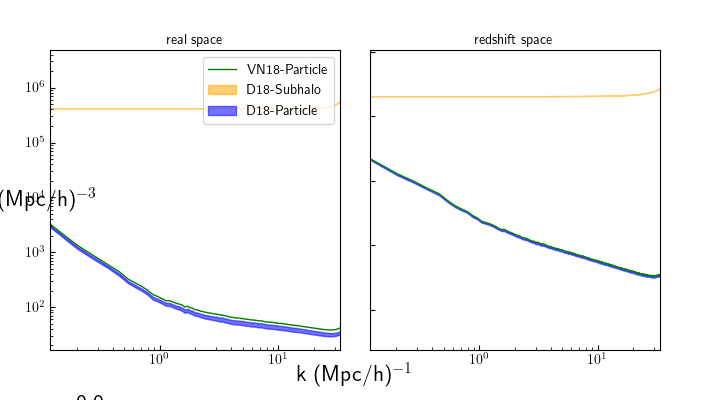
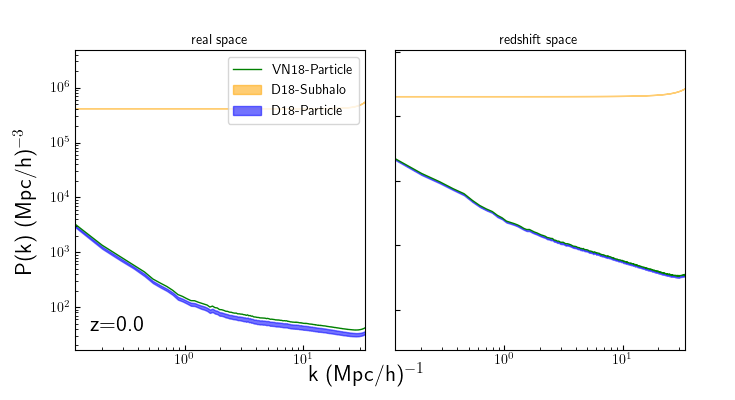
god there's so much to do

diff --git a/hc_lib/plots/figures/HI_auto_pk.py b/hc_lib/plots/figures/HI_auto_pk.py
@@ -37,9 +37,9 @@ def hiptl_individual_models(hiptls, panel_length = 3,
     nrows = len(snapshots)
     col_labels = ["real space", "redshift space", "comparison"]
     ncols = len(col_labels)
-
+    xborder = [1.5*border, border]
     fig, panels = plib.createFig(panel_length, nrows, ncols, panel_bt,
-            border, border)
+            xborder, border)
     
     # getting keys for each part:
     real_keys = plib.fetchKeys(['CICW'],['rs', 'temp'], list(hiptls[0].pks.keys()))
@@ -114,9 +114,9 @@ def hisubhalo_individual_models(hisubs, panel_length=3, panel_bt = 0.1,
     nrows = len(snapshots)
     col_labels = ["real space", "redshift space", "space comparison"]
     ncols = len(col_labels)
-
+    xborder = [1.5 * border, border]
     fig, panels = plib.createFig(panel_length, nrows, ncols, panel_bt,
-            border, border)
+            xborder, border)
     
     # getting keys for each part:
     real_keys = plib.fetchKeys(['CICW'],['rs', 'papa'], list(hisubs[0].pks.keys()))
@@ -234,8 +234,9 @@ def HI_auto_pk(hiptls, hisubs, vns, panel_length = 3,
     col_labels = ['real space', 'redshift space']
     nrows = len(snapshots)
     ncols = len(col_labels)
+    xborder = [1.5 * border, border]
     fig, panels = plib.createFig(panel_length, nrows, ncols, panel_bt,
-            border, border)
+            xborder, border)
     
     # now making each panel
     
@@ -290,16 +291,16 @@ def HI_auto_pk(hiptls, hisubs, vns, panel_length = 3,
                 ax.set_xticklabels([])
             
             if j == 0:
-                plt.text(hiptls[0].pks['k'][0], yrange[0] * 1.1,
+                plt.text(0.05, 0.05,
                     'z=%.1f'%redshifts[i], fontsize = fsize, ha = 'left', va = 'bottom',
-                    fontweight = 'bold')
+                    fontweight = 'bold', transform = ax.transAxes)
             else:
                 ax.set_yticklabels([])
         
 
     figsize = fig.get_size_inches()
     fig.text(border/2/figsize[0], 0.5, r'P(k) (Mpc/h)$^{-3}$',ha = 'center',
-            va = 'center', fontsize=fsize)
+            va = 'center', fontsize=fsize, rotation='vertical')
     fig.text(0.5, border/2/figsize[1], r'k (Mpc/h)$^{-1}$', ha = 'center',
             va = 'center', fontsize=fsize)
     

diff --git a/hc_lib/plots/figures/galaxy_auto_pk.py b/hc_lib/plots/figures/galaxy_auto_pk.py
@@ -7,11 +7,25 @@ import sys
 mpl.rcParams['text.usetex'] = True
 
 def main():
+    print("loading paths...")
+    OUTDIR = sys.argv.pop(1)
+    paths = plib.getPaths(OUTDIR)
+
+    print("loading pickle files...")
+    gals = plib.checkPkls(paths, {'fieldname':'galaxy'})
+    gdusts = plib.checkPkls(paths, {'fieldname':'galaxy_dust'})
+
+    print("comparing ...")
+    (gals, gdusts)
     return
 
-def stmass_vs_mass(galaxies, galaxy_dusts, panel_length = 3, panel_bt = 0.1,
+def mass_type_and_mas(gals, gdusts, panel_length = 3, panel_bt = 0.1,
         border = 0.5, fsize=16):
+    snapshots, redshifts = plib.getSnaps(gals + gdusts)
+    nrows = len(snapshots)
+    col_labels = ['Mass Species', 'Mass Assignment Scheme']
     
+    stmass_
     return
 if __name__ == '__main__':
     main()

diff --git a/hc_lib/fields/field_super.py b/hc_lib/fields/field_super.py
@@ -8,11 +8,11 @@ import h5py as hp
 from Pk_library import Pk, Xi, XPk, XXi
 import copy
 
-class Props():
+class grid_props():
     
-    def __init__(self, mas, field, in_rss, other_props):
+    def __init__(self, base, mas, field, in_rss, other_props):
         self.props = {}
-        self.props['rss'] = in_rss
+        self.props['base'] = base
         self.props['mas'] = mas
         self.props['field'] = field
         self.props.update(other_props)
@@ -42,7 +42,7 @@ class Props():
     
     @classmethod
     def loadProps(cls, dct):
-        return Props(dct.pop('base'), dct.pop('mas'), 
+        return grid_props(dct.pop('base'), dct.pop('mas'), 
                 dct.pop("field"), dct)
     
     def isCompatible(self, other):

diff --git a/hc_lib/fields/galaxy.py b/hc_lib/fields/galaxy.py
@@ -3,12 +3,12 @@
 
 """
 from hc_lib.grid.grid import Grid
-from hc_lib.fields.field_super import Field, Props
+from hc_lib.fields.field_super import Field, grid_props
 from hc_lib.build.input import Input
 import h5py as hp
 import numpy as np
 
-class galaxy_props(Props):
+class galaxy_grid_props(grid_props):
     """
     Since each galaxy field has an enormous number of grids, this contains the data
     for one grid
@@ -20,7 +20,7 @@ class galaxy_props(Props):
         for i in range(len(lst)):
             other[keys[i]] = lst[i]
 
-        super().__init__(mas, field, other)
+        super().__init__(color, mas, field, other)
 
         return
     
